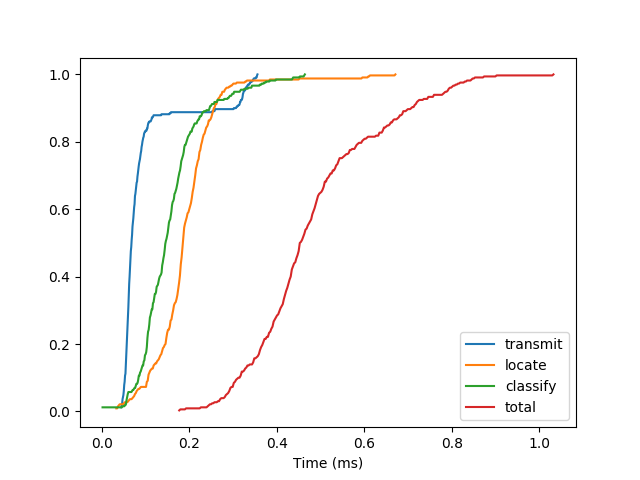
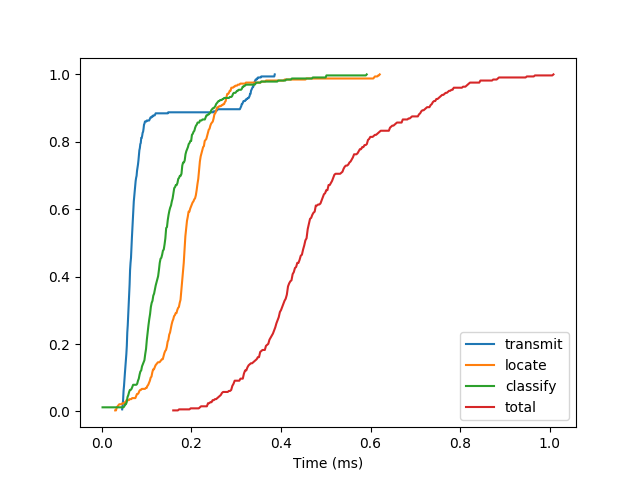
update bar plots

diff --git a/utils/plot_measurements.py b/utils/plot_measurements.py
@@ -37,8 +37,8 @@ if __name__ == '__main__':
         classify.append(float(line.split()[3]))
         total.append(float(line.split()[4]))
 
-    print transmit
 
+    plt.figure(0)
     measures_lst = [transmit, locate, classify, total]
     for idx, measures in enumerate(measures_lst):
         x, y = cdf(measures)
@@ -47,3 +47,14 @@ if __name__ == '__main__':
     plt.legend()
     plt.xlabel("Time (ms)")
     plt.savefig('latency_CDFs')
+
+    # bar plot
+    plt.figure(1)
+    x = range(len(lines) - 1)
+    total_bar = plt.bar(x, total, color=(0,0,0))
+    transmit_bar = plt.bar(x, transmit)
+    locate_bar = plt.bar(x, locate, bottom=transmit)
+    classify_bar = plt.bar(x, classify, bottom=locate)
+
+    plt.legend((total_bar[0], transmit_bar[0], locate_bar[0], classify_bar[0]), ('Total', 'Transmit', 'Locate Faces', 'Classify Faces'))
+    plt.savefig('latency_bar')
